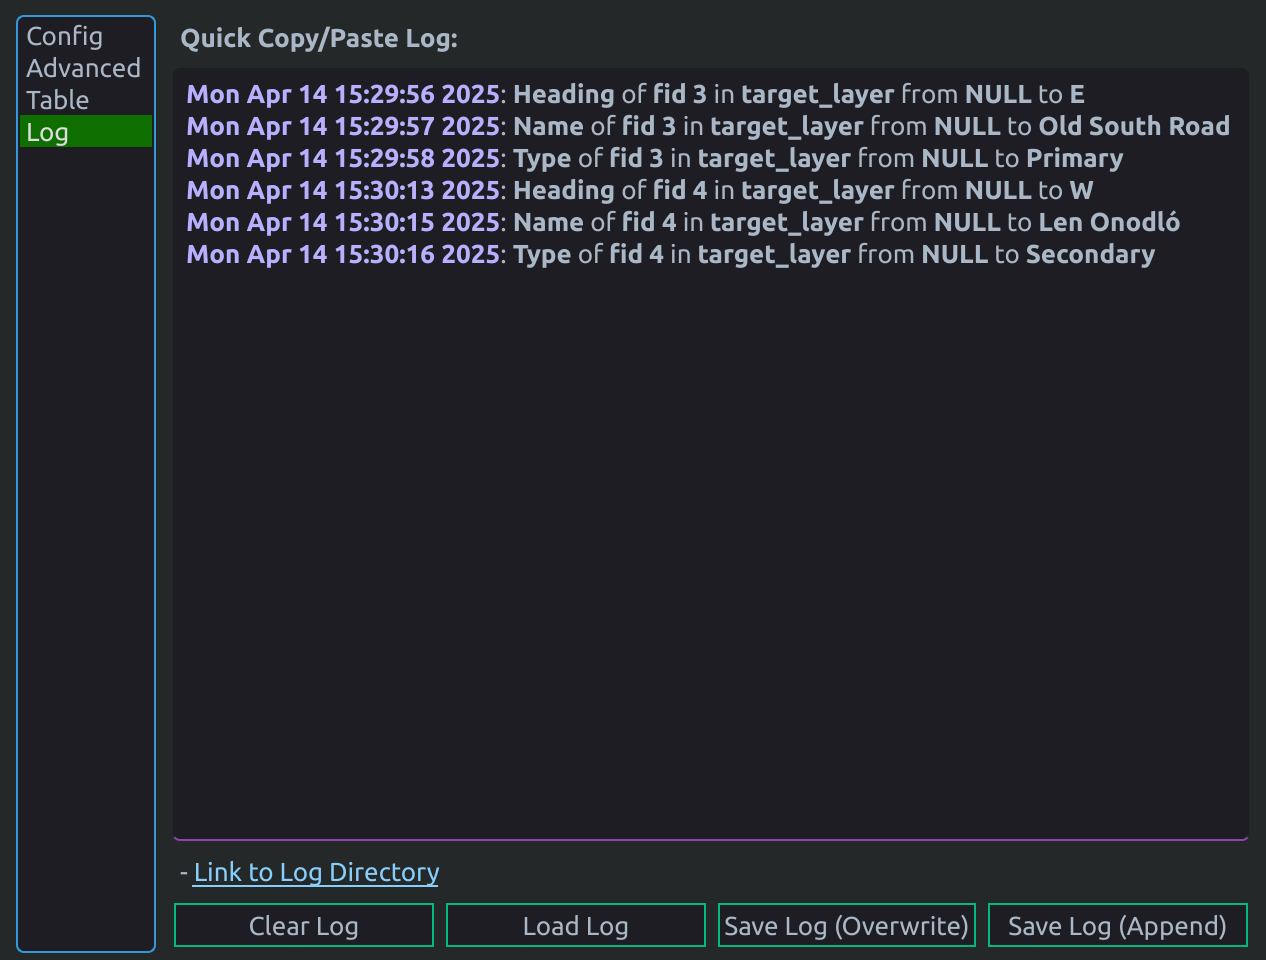
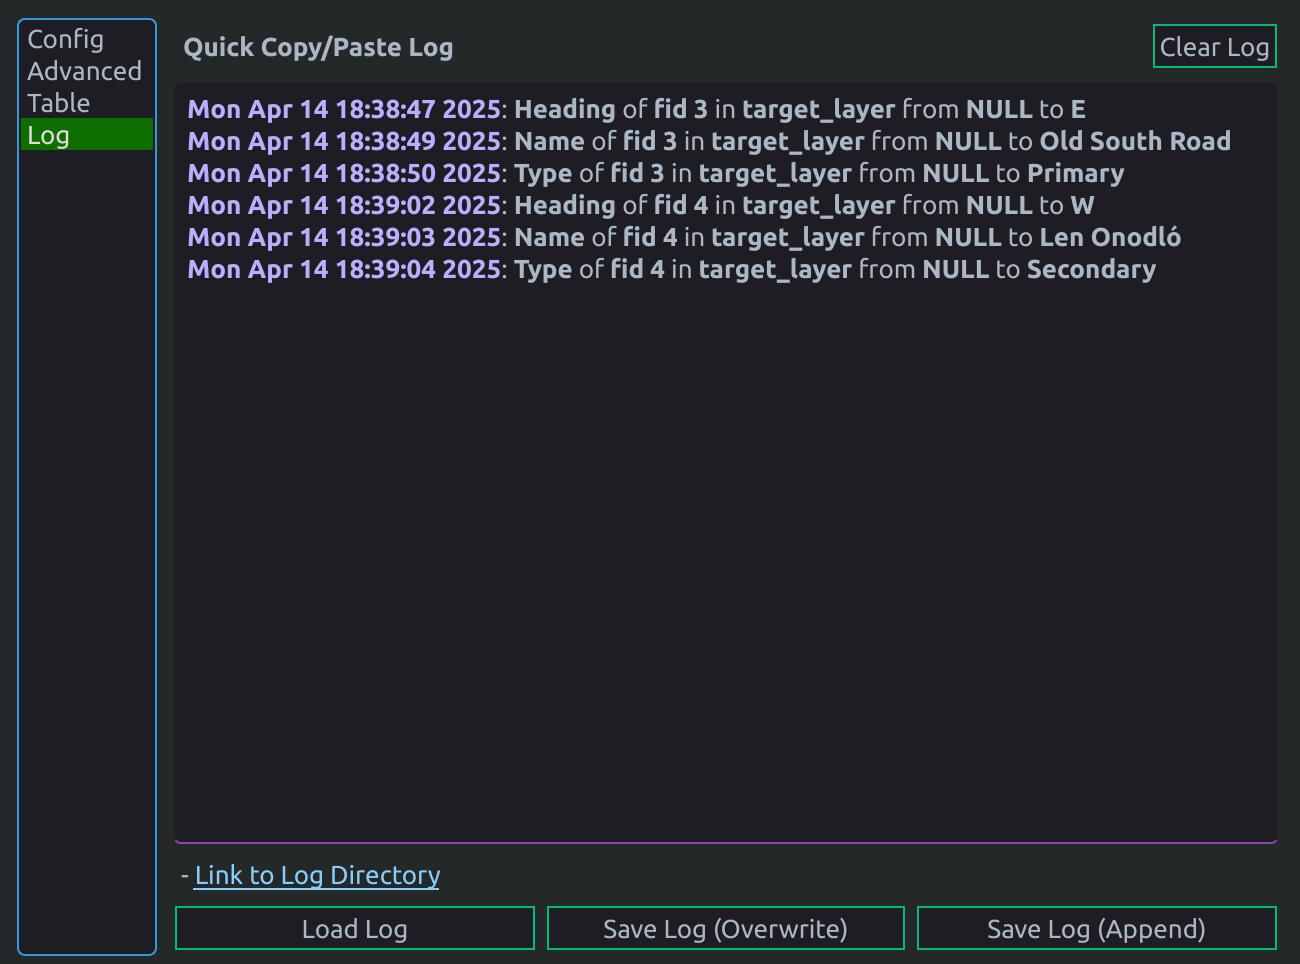
Moved clear log to top-right, new readme pic

diff --git a/src/dialog.py b/src/dialog.py
@@ -332,7 +332,11 @@ class PluginDialog(QDialog, FORM_CLASS):
         return path
 
     def clear_log(self):
-        self.copyPasteLog.clear() 
+        conf = QMessageBox.question(self, "Confirmation", 
+                            "This action will clear the current log window. Continue?", 
+                            QMessageBox.Yes | QMessageBox.No)
+        if conf == QMessageBox.Yes:
+            self.copyPasteLog.clear() 
 
     def save_log(self):
         dirpath = self.get_user_folder()
